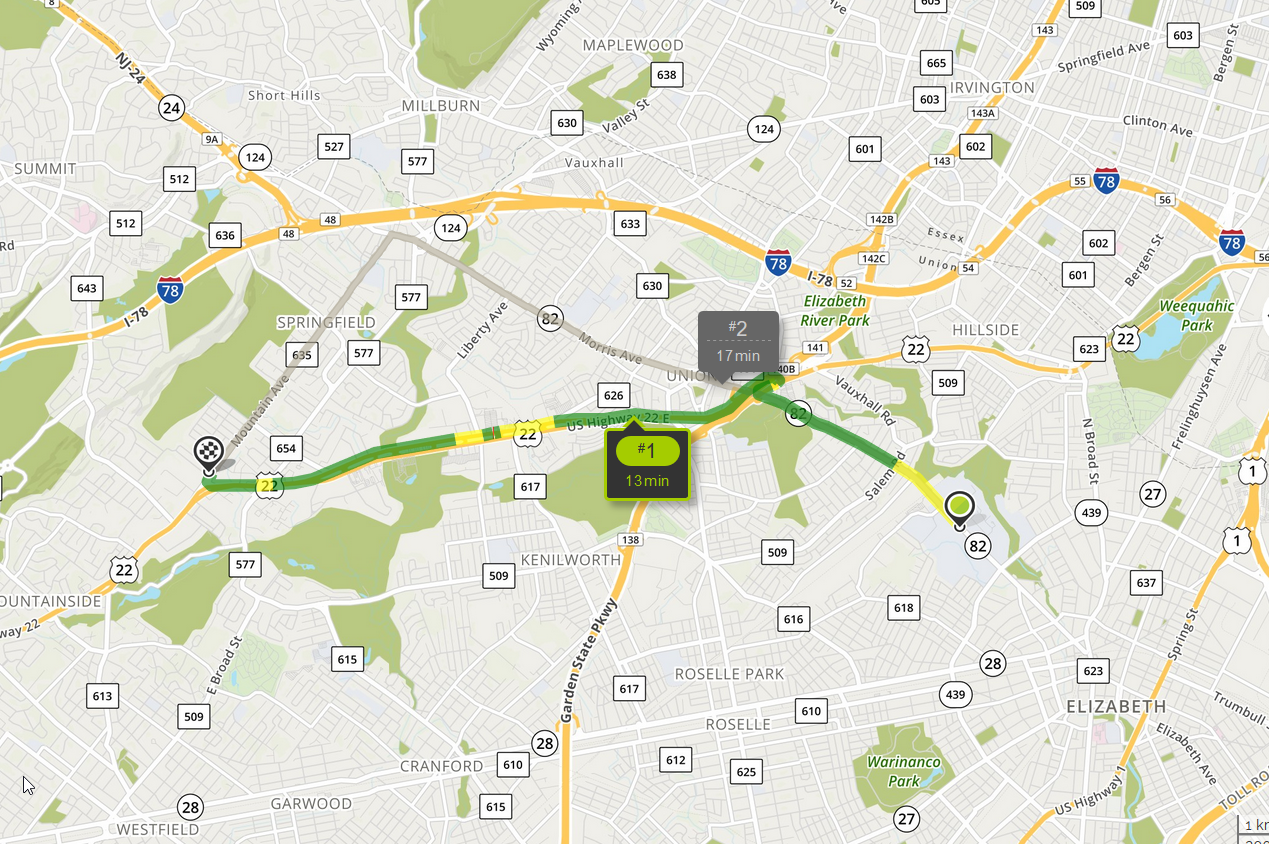
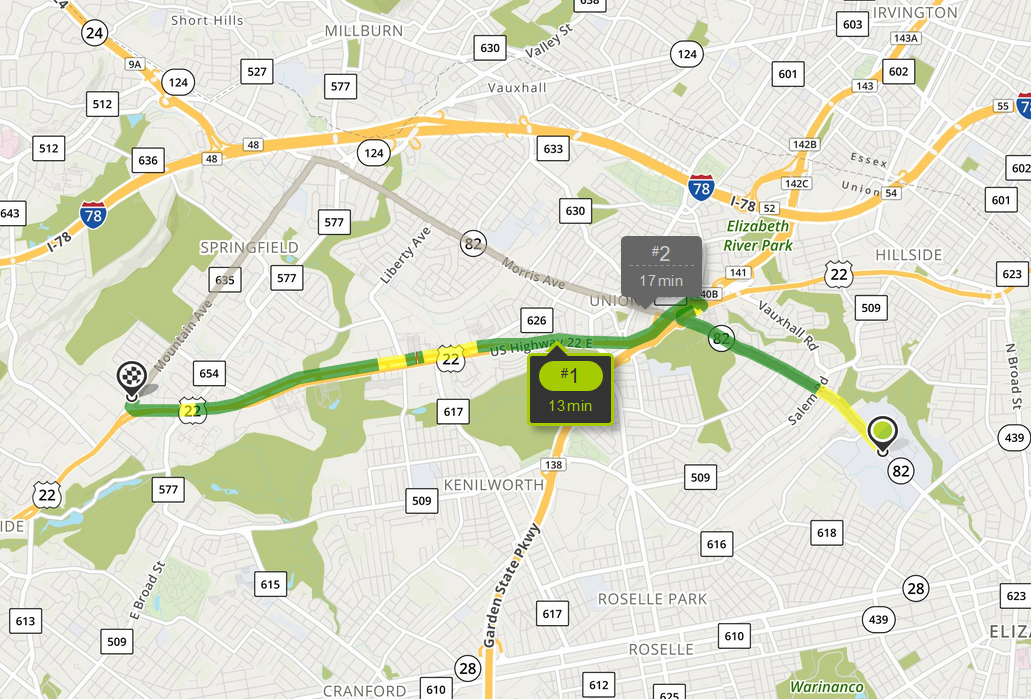
Fixed screenshot issue with API

diff --git a/jquery/index.html b/jquery/index.html
@@ -93,7 +93,7 @@
       <div class="field-body">
         <div class="field">
           <div class="control">
-            <input id="origin" class="input is-medium" type="text" placeholder="1000 Morris Ave, Union, NJ"
+            <input id="destination" class="input is-medium" type="text" placeholder="1000 Morris Ave, Union, NJ"
               style="max-width: 450px;"></input>
           </div>
         </div>
@@ -200,6 +200,7 @@
       $("#form").hide();
       var mapName;
       var screenShotPath;
+
       // Based on mapName, select a different map logo path
       var mapLogo = {
         "Google Maps": "./logos/Google_Maps_Logo.png",
@@ -209,12 +210,10 @@
         "MapQuest": "./logos/MapQuest_Logo.png"
       }
 
-      screenShotPath = "./routes/Google_Maps.png";
-
-      function card(key) {
-        var html = '<div class="column is-one-third"><div class="card"><div class="card-image"><figure class="image"> <img src="' + screenShotPath + '" alt="Image"> </figure> </div> <div class="card-content"> <div class="media"> <div class="media-left"> <figure class="image is-64x64"> <img src="' + mapLogo[key] + '" alt="Image"> </figure> </div> <div class="media-content"> <p class="is-size-6 is-bold">' + key + '</p> <p class="is-size-7">13 minutes</br>5.9 miles</br>Morris Ave and US-22 W</p> </div> </div> </div> </div> </div>';
-        $("#cards").append(html);
-      };
+      // function card(key) {
+      //   var html = '<div class="column is-one-third"><div class="card"><div class="card-image"><figure class="image"> <img src="' + screenShotPath + '" alt="Image"> </figure> </div> <div class="card-content"> <div class="media"> <div class="media-left"> <figure class="image is-64x64"> <img src="' + mapLogo[key] + '" alt="Image"> </figure> </div> <div class="media-content"> <p class="is-size-6 is-bold">' + key + '</p> <p class="is-size-7">13 minutes</br>5.9 miles</br>Morris Ave and US-22 W</p> </div> </div> </div> </div> </div>';
+      //   $("#cards").append(html);
+      // };
 
       function card(mapName, screenShotPath, eta, distance, route) {
         var html = '<div class="column is-one-third"><div class="card"><div class="card-image"><figure class="image"> <img src="./routes/' + screenShotPath + '" alt="Route screenshot"> </figure> </div> <div class="card-content"> <div class="media"> <div class="media-left"> <figure class="image is-64x64"> <img src="' + mapLogo[mapName] + '" alt=' + mapName + ' logo"> </figure> </div> <div class="media-content"> <p class="is-size-6 is-bold">' + mapName + '</p> <p class="is-size-7">' + eta + '</br>' + distance + '</br>' + route + '</p> </div> </div> </div> </div> </div>';

diff --git a/jquery/about.html b/jquery/about.html
@@ -88,11 +88,11 @@
 
 
             <div class="has-text-left">
-                <h3 class="title is-3">About me</h3>
+                <h3 class="title is-3">My Links</h3>
                 <p>
-                    Proven student leader as 2x President of Kean ACM and Co-Organizer of HackKean.
+                    <!-- Proven student leader as 2x President of Kean ACM and Co-Organizer of HackKean. -->
                 </p>
-                </br>
+                <!-- </br> -->
                 <div>
                     <a href="https://github.com/dhenriques/">
                         <i class="fab fa-github fa-2x fa-fw"></i>

diff --git a/jquery/flaskRest.py b/jquery/flaskRest.py
@@ -18,22 +18,22 @@ def sampleResults():
       },
       "1":{
          "mapName":"Waze",
-         "screenShotPath":"Google_Maps.png",
+         "screenShotPath":"Waze.png",
          "eta":"14 minutes",
          "distance":"5.9 miles",
          "route":"Morris Ave and US-22 W"
       },
       "2":{
          "mapName":"Bing Maps",
-         "screenShotPath":"Google_Maps.png",
-         "eta":"16 minutes",
-         "distance":"5.9 miles",
+         "screenShotPath":"Bing_Maps.png",
+         "eta":"17 minutes",
+         "distance":"5.5 miles",
          "route":"Morris Ave and US-22 W",
          "url":""
       },
       "3":{
          "mapName":"HERE WeGo",
-         "screenShotPath":"Google_Maps.png",
+         "screenShotPath":"HERE_WeGo.png",
          "eta":"15 minutes",
          "distance":"5.9 miles",
          "route":"Morris Ave and US-22 W",
@@ -41,9 +41,9 @@ def sampleResults():
       },
       "4":{
          "mapName":"MapQuest",
-         "screenShotPath":"Google_Maps.png",
-         "eta":"14 minutes",
-         "distance":"5.9 miles",
+         "screenShotPath":"MapQuest.png",
+         "eta":"13 minutes",
+         "distance":"6.1 miles",
          "route":"Morris Ave and US-22 W",
          "url":""
       } 
